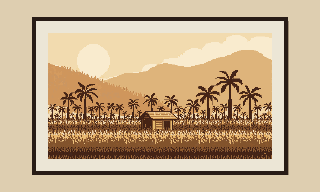
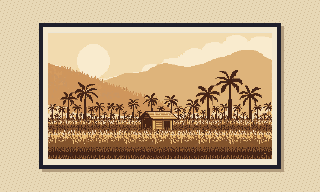
Haihei: fix the audit findings
- Rooftop view redrawn from the laundry deck itself, with the same orange sunset as the roof map
- Sick-room windows look out on the back-hill larch and birch (rooms face north); upper wall plastered
- Yakisoba memory regenerated under a navy tent matching the map stall, with the two-storey building; prosthetic arms and sunglasses repainted
- Main facade continues into a covered walkway toward the east ward, and a walkway map now sits between the hall and the ward
- Remaining memories graded as faded prints; all paintings in the same wood frame, photos on black mounts, the child's drawing pinned; the self-portrait redone as a painted portrait with a brass prosthetic
- Corridor picture gains room doors on the left wall; the far corridor gets a bench, a stopped wall clock, fire buckets and a potted plant
- The prize crystal sits in an empty slot on the shooting-gallery shelf

Claude-Session: https://claude.ai/code/session_01CdRwgmiiRbABwrAE7HmzdN

Changed region(s): [[0.0938, 0.0625, 0.9062, 0.9375]]

diff --git a/field/worlds.js b/field/worlds.js
@@ -778,7 +778,7 @@
   // フィールドは今(夕方)。死人に話しかけると、生きていた頃の文化祭の日の思い出(一枚絵)が起きる。
   // リリカルで、物悲しいが怖くない。サナトリウムのように穏やか。激戦があったことは匂わせるだけ。
   const HS = {
-    facade: { img: "facade", w: 512, h: 176, top: 0, bottom: 168 },
+    facade: { img: "facade", w: 544, h: 176, top: 0, bottom: 168 }, // 右端は東の病棟への渡り廊下
     arch: { img: "arch", w: 128, h: 96, top: 3, bottom: 93 },
     yakisoba: { img: "yakisoba", w: 96, h: 96, top: 12, bottom: 82, solid: [72, 20] },
     wataame: { img: "wataame", w: 96, h: 96, top: 12, bottom: 84, solid: [66, 20] },
@@ -831,6 +831,10 @@
     d_yakisoba: { img: "d_yakisoba", w: 64, h: 64, top: 4, bottom: 61, solid: [24, 10] },
     d_carver: { img: "d_carver", w: 48, h: 48, top: 4, bottom: 45, solid: [28, 10] }, // 畳の上で正座
     poppo_row: { img: "poppo_row", w: 40, h: 12, top: 1, bottom: 11 },
+    bench: { img: "bench", w: 64, h: 32, top: 4, bottom: 28, solid: [60, 10] },
+    clock: { img: "clock", w: 16, h: 32, top: 0, bottom: 30 },
+    firebucket: { img: "firebucket", w: 32, h: 32, top: 7, bottom: 30, solid: [26, 8] },
+    plant: { img: "plant", w: 32, h: 32, top: 5, bottom: 30, solid: [12, 6] },
     portrait: { img: "portrait", w: 32, h: 32, top: 2, bottom: 26 },
     d_wheel: { img: "d_wheel", w: 64, h: 64, top: 7, bottom: 58, solid: [26, 10] },
     d_bedman: { img: "d_bedman", w: 32, h: 64, top: 3, bottom: 62, solid: [26, 40] },
@@ -1055,7 +1059,7 @@
       bunting(ctx, ox, oy, 2 * T, 12.5 * T, 16 * T, 12.5 * T, t);
     },
     objects: [
-      hat("facade", 9 * T, 5 * T),
+      hat("facade", 9.5 * T, 5 * T), // 玄関が 9 列目の中央に来る
       board("board_gate", 7 * T, 9.3 * T), // 中庭の奥、病棟への道の脇の掲示板(正面から見える)
       hat("ginkgo", 1.2 * T, 7 * T),
       hat("ginkgo", 16.8 * T, 7.4 * T),
@@ -1105,9 +1109,9 @@
           if (api.flag("prize")) return;
           const a = 0.55 + Math.sin(t * 3) * 0.35;
           ctx.fillStyle = `rgba(170, 230, 255, ${a})`;
-          ctx.fillRect(sx - 6, sy - 6, 4, 6);
+          ctx.fillRect(sx - 7, sy - 4, 5, 6); // 景品棚の中段の、空けてある枠に収まる
           ctx.fillStyle = "rgba(255, 255, 255, 0.9)";
-          ctx.fillRect(sx - 5, sy - 5, 1, 2);
+          ctx.fillRect(sx - 6, sy - 3, 1, 2);
         },
       }),
       dead("d_shateki", "shateki", 15.6 * T, 11.7 * T, "v_stall", (api) => stamp(api, "stall")),
@@ -1182,7 +1186,7 @@
     },
     triggers: [
       { id: "toYard", x: 7 * T, y: 11.3 * T, w: 2 * T, h: T, warp: { map: "yard", spawn: "door" } },
-      { id: "toWard", x: 15.4 * T, y: 7 * T, w: T, h: 2 * T, warp: { map: "ward", spawn: "west" } },
+      { id: "toWard", x: 15.4 * T, y: 7 * T, w: T, h: 2 * T, warp: { map: "watari", spawn: "west" } },
     ],
     objects: [
       hat("stage", 8 * T, 5 * T),
@@ -1248,6 +1252,54 @@
         api.show(vignette);
       },
     });
+  // ---- 渡り廊下(大広場から東の病棟へ。屋根付きで、両側は手すりごしに中庭の草地) ----
+  const WATARI_W = 9;
+  const WATARI = {
+    tile: T,
+    bg: "#1c1411",
+    tintMul: "#f2b48a",
+    tint: "rgba(255, 150, 70, 0.10)",
+    map: ["G".repeat(WATARI_W), "R".repeat(WATARI_W), ".".repeat(WATARI_W), ".".repeat(WATARI_W), "R".repeat(WATARI_W), "G".repeat(WATARI_W)],
+    legend: {
+      G: { wang: "yard", solid: true, lowerOf: ["ward"] },
+      R: { wang: "ward", solid: true, lowerOf: ["ward"] },
+      ".": { wang: "ward", lowerOf: ["ward"] },
+    },
+    wang: {
+      yard: { img: "wang_yard", size: 32, lookup: WANG16 },
+      ward: { img: "wang_ward", size: 32, lookup: WANG16 },
+    },
+    drawGround(ctx, ox, oy) {
+      const W = WATARI_W * T;
+      // 屋根の影(床の上だけ、少し暗く)と、西日の差し込み
+      ctx.fillStyle = "rgba(40, 24, 16, 0.18)";
+      ctx.fillRect(ox, T + oy, W, 4 * T);
+      southLight(ctx, ox, oy, 0, W, 5 * T);
+      // 手すり: 柱と横木(北と南)
+      for (const y of [T + 20, 4 * T + 8]) {
+        ctx.fillStyle = "#5b3d2a";
+        ctx.fillRect(ox, y + oy, W, 3);
+        ctx.fillStyle = "#94603a";
+        ctx.fillRect(ox, y - 1 + oy, W, 1);
+        for (let x = 0; x < W; x += T) {
+          ctx.fillStyle = "#5b3d2a";
+          ctx.fillRect(x + 14 + ox, y - 14 + oy, 4, 22);
+          ctx.fillStyle = "#b98450";
+          ctx.fillRect(x + 14 + ox, y - 14 + oy, 1, 22);
+        }
+      }
+    },
+    spawns: {
+      west: { x: 0.8 * T, y: 3 * T, facing: "east" },
+      east: { x: (WATARI_W - 0.8) * T, y: 3 * T, facing: "west" },
+    },
+    triggers: [
+      { id: "toHall", x: -T, y: 2 * T, w: 1.8 * T, h: 2 * T, warp: { map: "hall", spawn: "east" } },
+      { id: "toWard", x: (WATARI_W - 0.8) * T, y: 2 * T, w: 1.8 * T, h: 2 * T, warp: { map: "ward", spawn: "west" } },
+    ],
+    objects: [],
+  };
+
   // 廊下の作品展: 患者たちの絵と、写真
   const CORRIDOR_ARTS = [["fuji", 1.4], ["moon", 6.6], ["ginkgo", 9.4], ["roof", 14.6], ["blob", 17.4], ["self", 22.6], ["group", 25.4], ["banana", 30.6], ["squad", 33.4]];
   // ---- 廊下(個室のドアと、絵や写真の展示が並ぶ。途中に詰所、突き当たりに屋上への階段) ----
@@ -1316,7 +1368,7 @@
       Object.fromEntries(Object.entries(DOORS).map(([k, c]) => [k, { x: (c + 0.5) * T, y: 2.8 * T, facing: "south" }]))
     ),
     triggers: [
-      { id: "toHall", x: -T, y: 2 * T, w: 1.5 * T, h: 2 * T, warp: { map: "hall", spawn: "east" } },
+      { id: "toHall", x: -T, y: 2 * T, w: 1.5 * T, h: 2 * T, warp: { map: "watari", spawn: "east" } },
       // 個室のドア: 入ると部屋に切り替わる
       // 突き当たりの階段: 歩いて上がると屋上へ
       { id: "toRoof", x: (STAIR_C + 0.2) * T, y: 1.9 * T, w: 1.6 * T, h: 0.45 * T, warp: { map: "roof", spawn: "up" } },
@@ -1327,6 +1379,11 @@
       ...CORRIDOR_ARTS.map(([k, c]) => wallPhoto(`art_${k}`, (c + 0.5) * T, `v_art_${k}`)),
       // からの車椅子が、廊下を走っていた
       dead("d_wheel", "wheel", 6.5 * T, 4.9 * T, "v_wheel"),
+      // 廊下の奥: 壁ぎわの長椅子、止まったままの柱時計、防火用水、葉蘭の鉢
+      hat("bench", 38.9 * T, 2.9 * T),
+      hat("clock", 40 * T + 3, 1.25 * T, { sortDy: -40 }),
+      hat("firebucket", 42.5 * T, 2.85 * T),
+      hat("plant", 46.6 * T, 2.85 * T),
       // 屋上への階段(壁の開口部)
       hat("stairs", (STAIR_C + 1) * T, 2 * T, { sortDy: -40 }),
     ],
@@ -1634,7 +1691,7 @@
       name: "廃兵院",
       assetBase: "./assets/worlds/haihei/",
       images: Object.fromEntries(
-        ["facade", "arch", "yakisoba", "wataame", "shateki", "uketsuke", "wheelchair", "crutch", "ginkgo", "stage", "exhibit1", "exhibit2", "telescope", "tv_on", "tv_off", "iv", "legshelf", "oxyvase", "starchart", "photo_wedding", "photo_fighter", "d_family", "d_visitors", "poppo_row", "portrait", "tansu", "futon", "hibachi", "tricycle", "kyodai", "stairs", "door", "bed_f", "bonsai_table1", "bonsai_table2", "rwall", "rwall_p", "rwall_w", "aw", "aw_g", "aw_p", "aw_pg", "aw_w", "aw_wg", "aw_pw", "wheelchair_back", "prosthetic_rack", "workbench", "arm_stand", "deskphoto", "sunset", "noticeboard", "v_board", "guestbook", "v_guestbook", "wx_bed", "wx_chair", "wx_gramophone", "wx_lamp", "wx_teatable", "wx_rug", "rwallx", "rwallx_p", "rwallx_w", "art_fuji", "art_moon", "art_ginkgo", "art_blob", "art_self", "art_group", "art_banana", "art_squad", "art_roof", "cot", "radio", "wang_yard", "wang_ward",
+        ["facade", "arch", "yakisoba", "wataame", "shateki", "uketsuke", "wheelchair", "crutch", "ginkgo", "stage", "exhibit1", "exhibit2", "telescope", "tv_on", "tv_off", "iv", "legshelf", "oxyvase", "starchart", "photo_wedding", "photo_fighter", "d_family", "d_visitors", "poppo_row", "portrait", "bench", "clock", "firebucket", "plant", "tansu", "futon", "hibachi", "tricycle", "kyodai", "stairs", "door", "bed_f", "bonsai_table1", "bonsai_table2", "rwall", "rwall_p", "rwall_w", "aw", "aw_g", "aw_p", "aw_pg", "aw_w", "aw_wg", "aw_pw", "wheelchair_back", "prosthetic_rack", "workbench", "arm_stand", "deskphoto", "sunset", "noticeboard", "v_board", "guestbook", "v_guestbook", "wx_bed", "wx_chair", "wx_gramophone", "wx_lamp", "wx_teatable", "wx_rug", "rwallx", "rwallx_p", "rwallx_w", "art_fuji", "art_moon", "art_ginkgo", "art_blob", "art_self", "art_group", "art_banana", "art_squad", "art_roof", "cot", "radio", "wang_yard", "wang_ward",
           "d_uketsuke", "d_shateki", "d_yakisoba", "d_carver", "d_band1", "d_band2", "d_band3", "d_band4", "d_band5", "d_wheel", "d_bedman", "d_scope",
           "v_uketsuke", "v_yakisoba", "v_stall", "v_carver", "v_stage", "v_wheel", "v_bed", "v_cockpit", "v_photo_wedding", "v_photo_fighter", "v_view", "v_moon", "v_family", "v_wataame", "v_art_fuji", "v_art_moon", "v_art_ginkgo", "v_art_blob", "v_art_self", "v_art_group", "v_art_banana", "v_art_squad", "v_art_roof", "v_tv", "v_card_0", "v_card_1", "v_card_2", "v_card_3", "v_card_4", "v_card_5", "v_card_6", "v_card_7"]
           .map((k) => [k, `${k}.png`])
@@ -1643,7 +1700,7 @@
       playerSprite: { img: "ki", cell: 64, frames: 7, footY: 17 },
       start: "yard",
       startSpawn: "gate",
-      maps: { yard: YARD, hall: HALL, ward: WARD, sick: ROOM_SICK, window: ROOM_WINDOW, room1: ROOM1, room2: ROOM2, workshop: ROOM_WORKSHOP, carver: ROOM_CARVER, roof: ROOF },
+      maps: { yard: YARD, hall: HALL, watari: WATARI, ward: WARD, sick: ROOM_SICK, window: ROOM_WINDOW, room1: ROOM1, room2: ROOM2, workshop: ROOM_WORKSHOP, carver: ROOM_CARVER, roof: ROOF },
     },
   };
 })();

diff --git a/docs/bogidachi.md b/docs/bogidachi.md
@@ -177,8 +177,10 @@
 - **建物の決まり(作者と合意。調査: 擬洋風建築の木造校舎、分棟式の療養所、富士屋ホテルなどの和洋折衷)**:
   - 敷地は高原の南斜面(北が上)。北に裏山(カラマツと白樺の防風林)と外気舎の小屋。中央に本館(木造2階・平入り)と東病棟(木造2階)を屋根付きの渡り廊下でつなぐ(分棟式)。本館の裏にボイラーの煙突、西に菜園。本館の南が中庭(文化祭の会場、大銀杏)、その南が前庭(受付)、石の門柱の正門から高原の道路へ。
   - 外観(案A): 生成りのペンキ塗りの下見板張り、白い枠の上げ下げ窓、灰色の鉄板葺き(寒冷地)、1階の南面に下屋の縁側、玄関は本館の中央で格子戸。
+  - 作品の額: 絵画は茶の木の額、写真は黒い台紙、子どもの絵は画鋲留め。思い出の一枚絵はすべて褪せた写真の色にそろえる。
+  - 廊下の奥には、壁ぎわの長椅子、止まったままの柱時計、防火用水、葉蘭の鉢。個室の窓は北向きなので、窓の外は裏山のカラマツと白樺。
   - 室内: 腰板+漆喰+長押、油引きの板床、乳白ガラスの吊り電灯、真鍮の取っ手の洋風の扉。障子は和室の中だけ。廊下や外観に障子を使わない、意味のない長屋を描かない、反りの強い寺社風の屋根にしない。
-  - 歩く順: 中庭→玄関→大広場(北の壁ぎわに舞台)→東へ→病棟の片廊下→突き当たりの階段→物干し台。片廊下の北側に個室が幅8マス(内法7マス+仕切りの柱)で並び、ドアは各部屋の中央。個室の窓は北の外壁。廊下の南側は一面のガラス窓で、マップでは床に落ちる西日の帯で示す。
+  - 歩く順: 中庭→玄関→大広場(北の壁ぎわに舞台)→東へ屋根付きの渡り廊下(両側は手すりごしの草地)→病棟の片廊下→突き当たりの階段→物干し台。片廊下の北側に個室が幅8マス(内法7マス+仕切りの柱)で並び、ドアは各部屋の中央。個室の窓は北の外壁。廊下の南側は一面のガラス窓で、マップでは床に落ちる西日の帯で示す。
 - **懲罰空間での出現**: 凍った湖と富士山を終えたあとに現れる。
 
 ## セーブポイント
